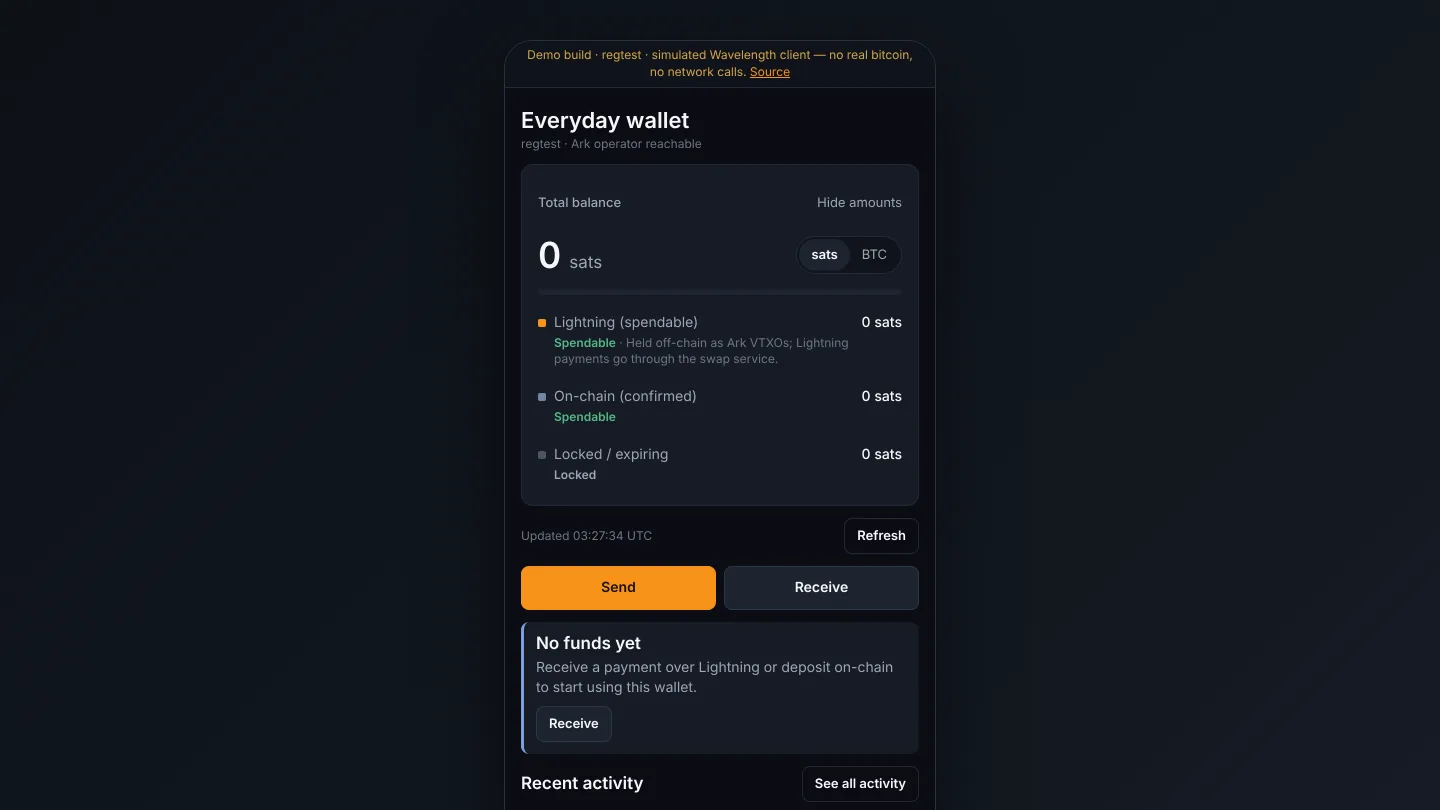
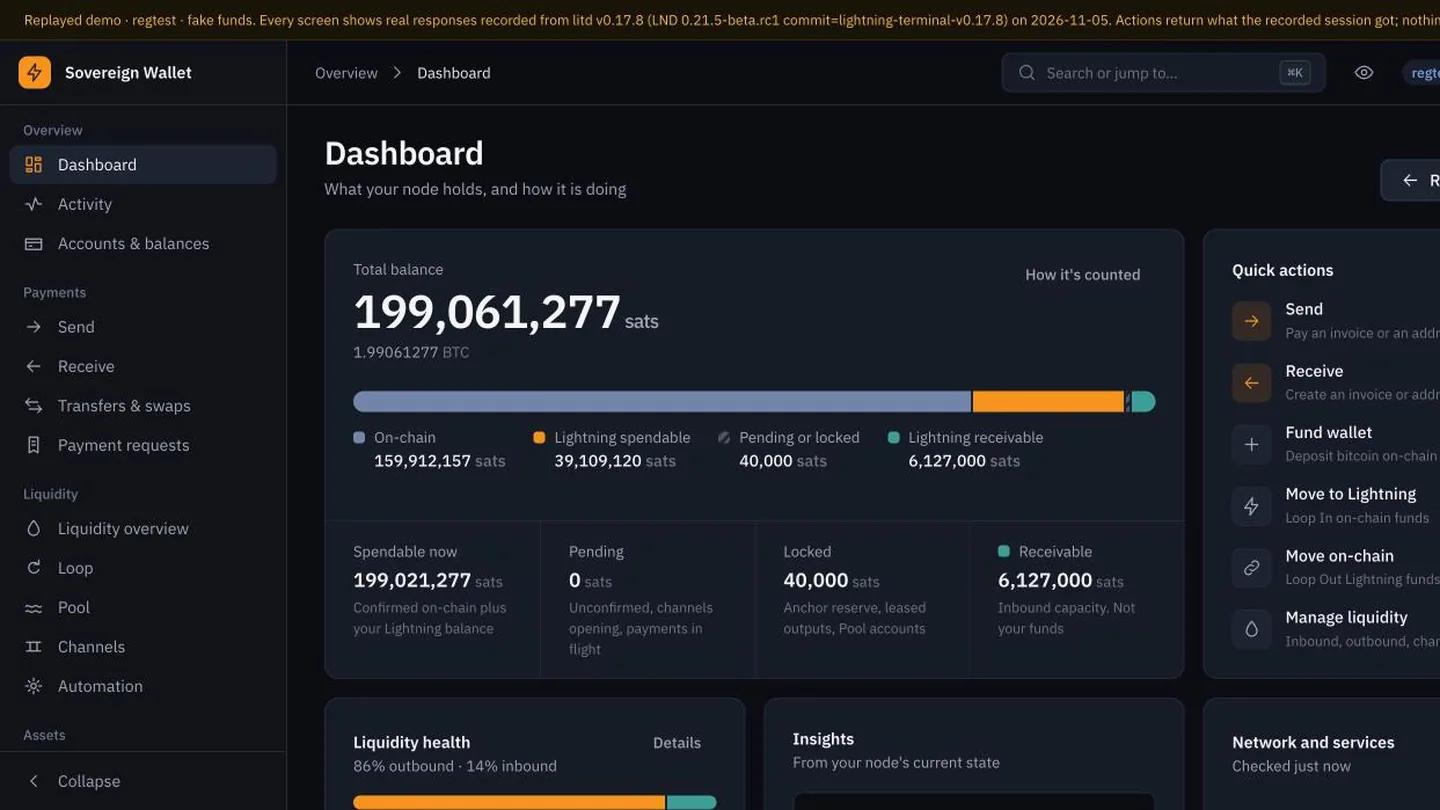
feat(projects): live demos for Sovereign Wallet and Lanekeeper
- Sovereign Wallet: demo at sovereign-wallet.vercel.app/desktop; maturity
  Tested MVP → Public demo; card image is now the live desktop dashboard
  (replayed litd responses, regtest, fake funds), with the everyday-mode
  mobile screen moved to the gallery.
- Lanekeeper: concept site at pauloes-btechs.github.io/lanekeeper; maturity
  stays Prototype (the robot is still a design).
- Detail gallery supports narrow (portrait) figures.

Claude-Session: https://claude.ai/code/session_01JJKPhenKXjsmDGa1GdYmor

diff --git a/lib/projects.js b/lib/projects.js
@@ -10,7 +10,7 @@
 //   • Private repositories never get a public repoUrl or internal detail.
 //   • Only records with publish: "approved" render anywhere on the site.
 //   • Hand edits win: automation proposes diffs, a human merges them.
-// Last verified: 2026-11-11.
+// Last verified: 2026-11-11 (demo URLs for Lanekeeper and Sovereign Wallet confirmed live).
 // ============================================================
 
 /** Allowed maturity levels, ordered least → most mature. */
@@ -160,11 +160,12 @@ export const projects = [
       "110 Vitest test files (unit, fuzz, and integration) plus Playwright end-to-end tests for desktop",
       "Four CI workflows, including real Loop In and Loop Out swaps verified on regtest",
       "Five release-blocking recovery drills recorded in the repository's test results",
-      "Honest status: the web demo and mobile everyday mode use a simulated Ark client; builds are not yet signed for distribution",
+      "Public demos: the advanced desktop app replaying real litd responses recorded on regtest, and everyday mode on a simulated Ark client — fake funds, nothing is sent",
+      "Honest status: builds are not yet signed for distribution",
     ],
     highlights: ["Crash-safe payment intents", "Real Loop swaps verified in CI", "Desktop · mobile · web from one monorepo"],
     tech: ["TypeScript", "Lightning (litd / LND)", "Ark", "Tauri 2", "React Native", "SQLCipher"],
-    maturity: "tested-mvp",
+    maturity: "public-demo",
     dates: { start: "2026-10-30", end: "2026-11-09" },
     milestone: {
       date: "2026-11-05",
@@ -173,14 +174,21 @@ export const projects = [
     },
     visibility: "public",
     repoUrl: "https://github.com/pauloes-btechs/sovereign-wallet",
-    demoUrl: null,
+    demoUrl: "https://sovereign-wallet.vercel.app/desktop",
     image: {
       src: "/projects/sovereign-wallet.webp",
-      alt: "Sovereign Wallet everyday-mode home screen showing Lightning, on-chain, and locked balances, from the regtest demo build",
+      alt: "Sovereign Wallet desktop dashboard showing total balance split across on-chain, Lightning spendable, locked, and receivable funds, with quick actions for Loop and liquidity",
       kind: "screenshot",
-      caption: "Demo build on regtest with a simulated Ark client — no real bitcoin.",
+      caption: "Live demo — the desktop app replaying litd responses recorded on regtest. Fake funds; nothing is sent.",
     },
-    gallery: [],
+    gallery: [
+      {
+        src: "/projects/sovereign-wallet-home.webp",
+        alt: "Sovereign Wallet everyday-mode home screen on mobile showing Lightning, on-chain, and locked balances",
+        caption: "Everyday mode — demo build on regtest with a simulated Ark client.",
+        narrow: true,
+      },
+    ],
     sources: [
       { label: "README and product capability matrix", ref: "sovereign-wallet/README.md, docs/PRODUCT_CAPABILITY_MATRIX.md" },
       { label: "Payment engine and capability contract", ref: "sovereign-wallet/packages/" },
@@ -421,6 +429,7 @@ export const projects = [
     validation: [
       "Deno unit tests on the verification function's auth, fail-closed, and spend-cap paths",
       "v0.1.0 tagged October 2026",
+      "Public concept site with an interactive 3D model of LK-01",
       "Honest status: the robot hardware is a design; the software platform is a working prototype",
     ],
     highlights: ["PostGIS lane model", "Vision-model verification", "Concept hardware, real data platform"],
@@ -434,7 +443,7 @@ export const projects = [
     },
     visibility: "public",
     repoUrl: "https://github.com/pauloes-btechs/lanekeeper",
-    demoUrl: null,
+    demoUrl: "https://pauloes-btechs.github.io/lanekeeper/",
     image: {
       src: "/projects/lanekeeper.webp",
       alt: "Concept render of the LK-01 bike-lane sweeper robot — a design, not a photograph of built hardware",

diff --git a/app/portfolio/[slug]/page.js b/app/portfolio/[slug]/page.js
@@ -157,7 +157,7 @@ export default async function ProjectPage({ params }) {
               <div className="gallery">
                 {p.gallery.map((g) => (
                   <Reveal key={g.src}>
-                    <figure className="project-figure" style={{ marginTop: 0 }}>
+                    <figure className={`project-figure${g.narrow ? " narrow" : ""}`} style={{ marginTop: 0 }}>
                       {/* eslint-disable-next-line @next/next/no-img-element */}
                       <img src={g.src} alt={g.alt} loading="lazy" />
                       {g.caption && <figcaption>{g.caption}</figcaption>}
